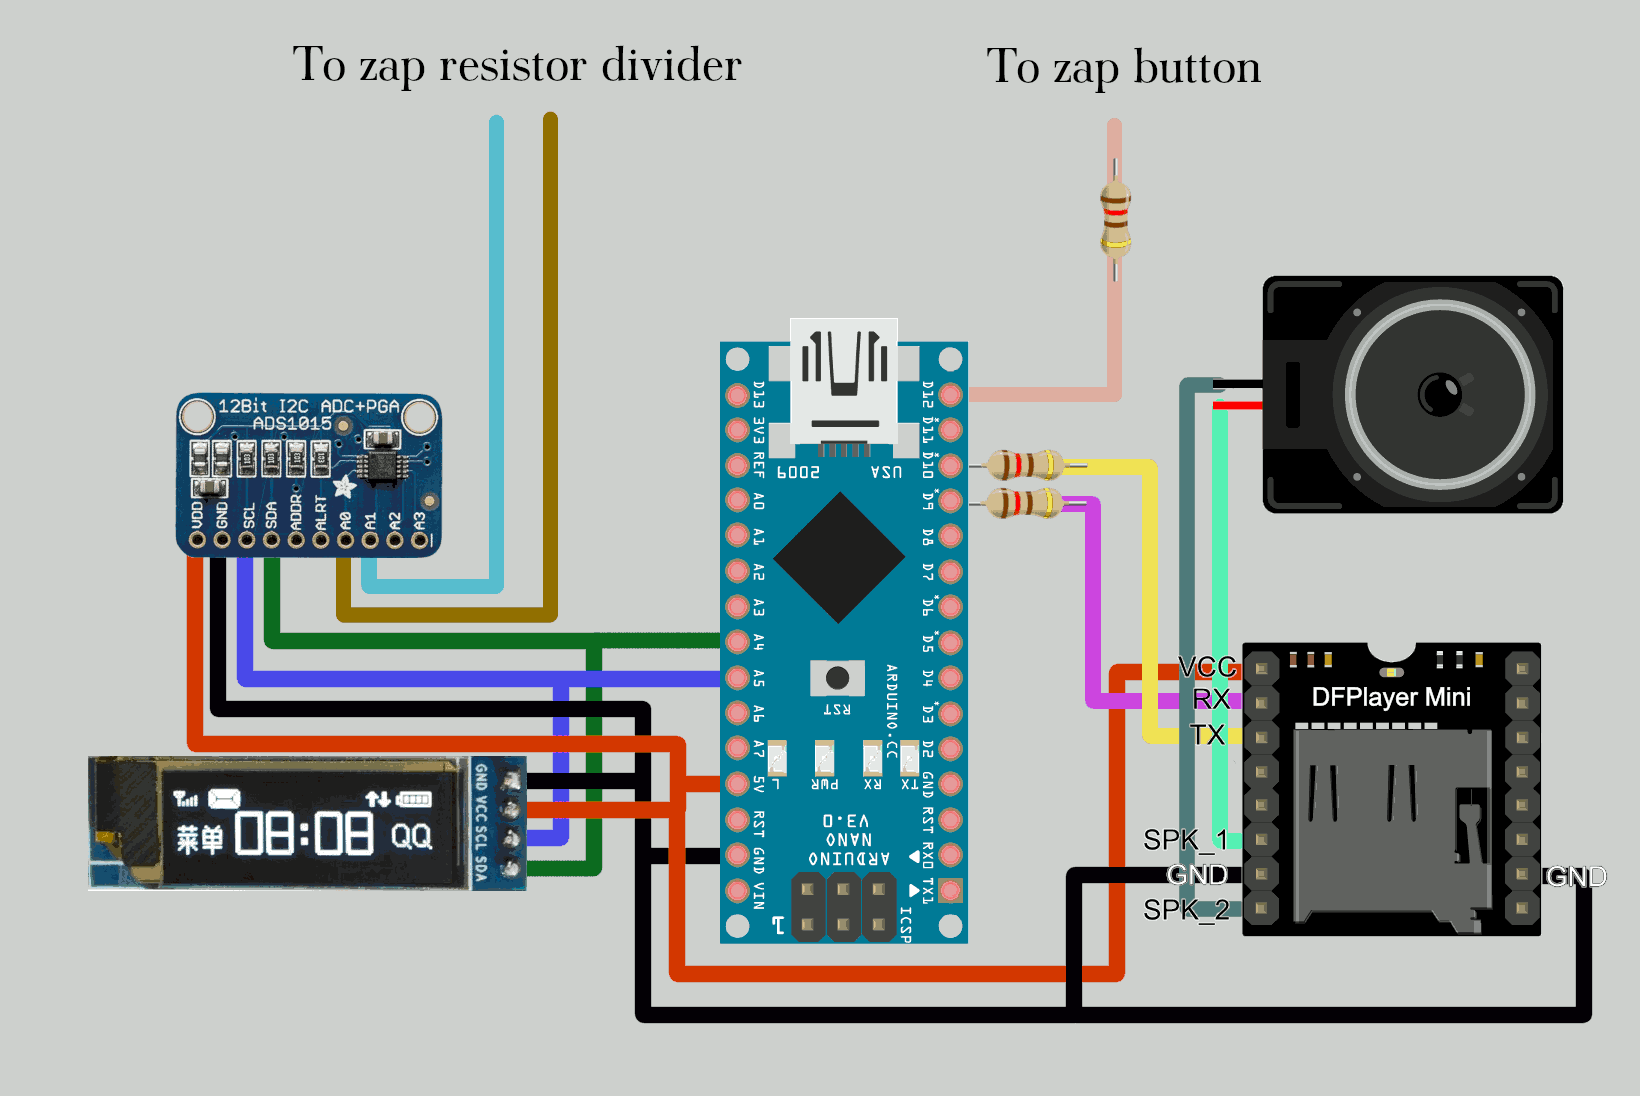
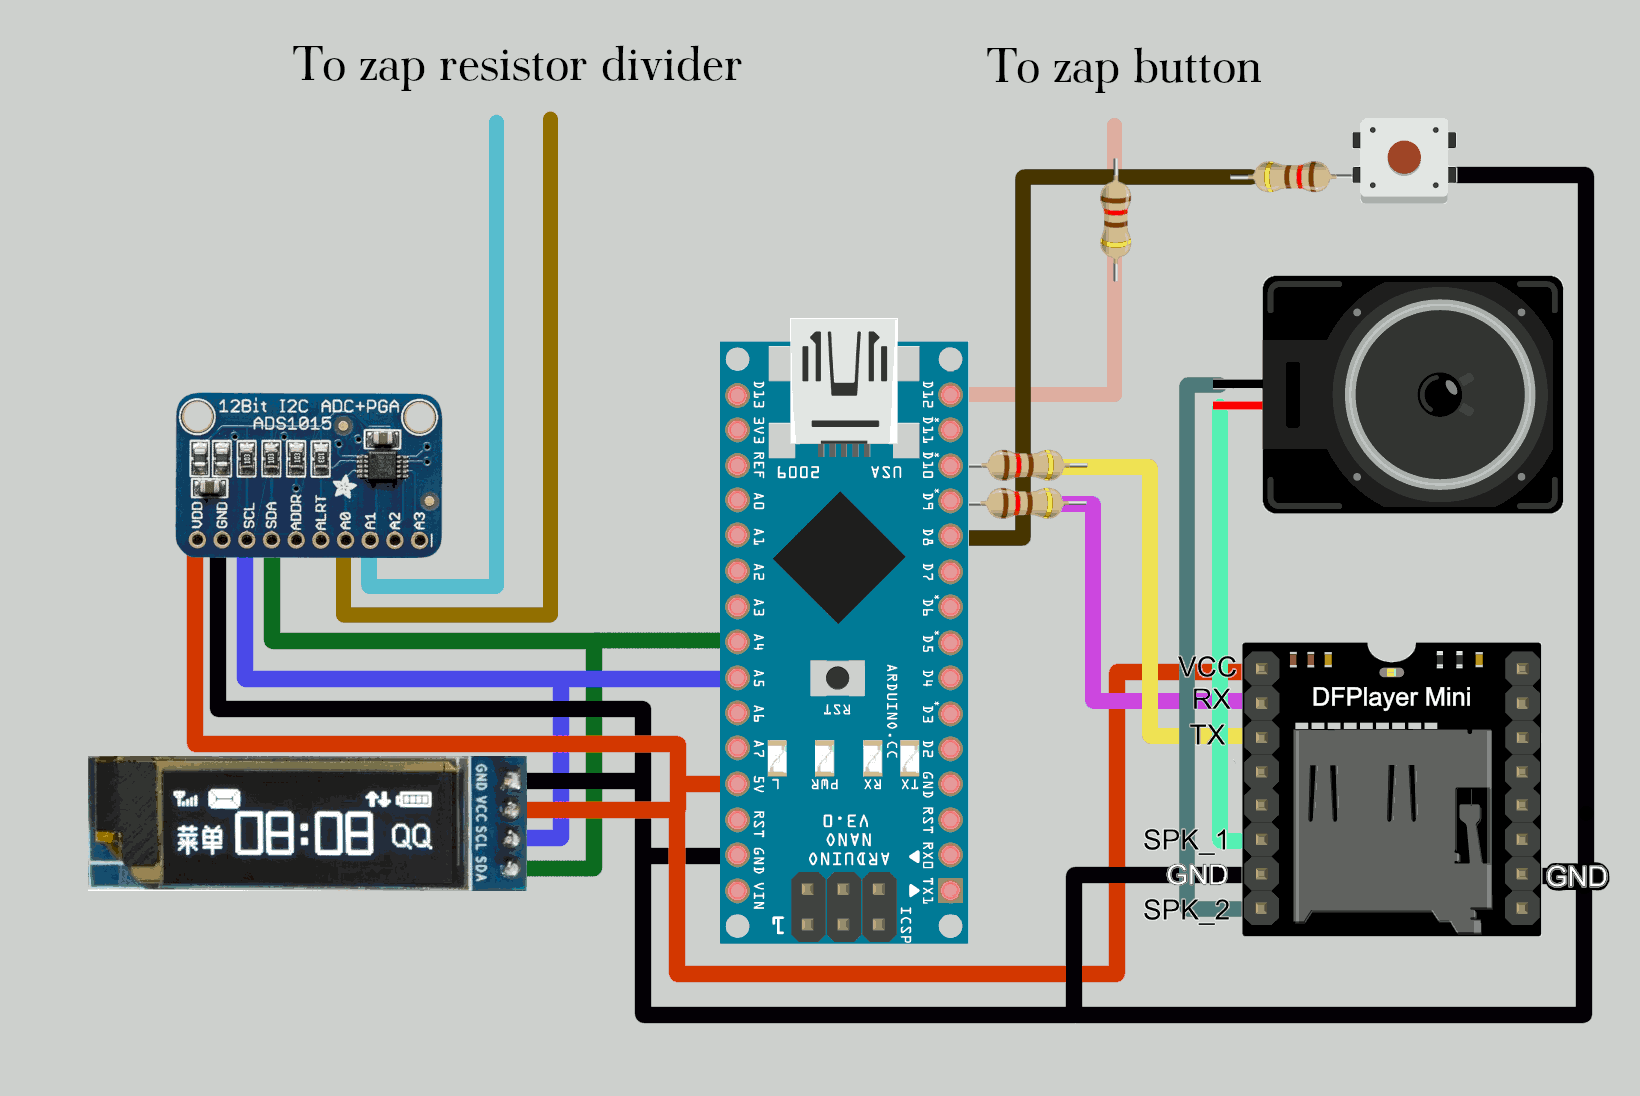
Updated doc

diff --git a/README.md b/README.md
@@ -15,3 +15,7 @@ It ads kill counter, high score and sound effects.
 ## Assembly
 
 ![MosquitoKiller schematic](https://github.com/Saur0o0n/MosquitoKiller/blob/2a2c9f64fb0cd5d484beb640bc2a6db06d57f0b8/documentation/MosquitoKiller-schematic.png)
+
+32kOhm for voltage divider. According to color description, bleed resistors used for capacitor should be 22MOhm, but they are more like 18MOhm (my multimeter at hand, had some troubles to measure it).
+
+10kOhm for rest
